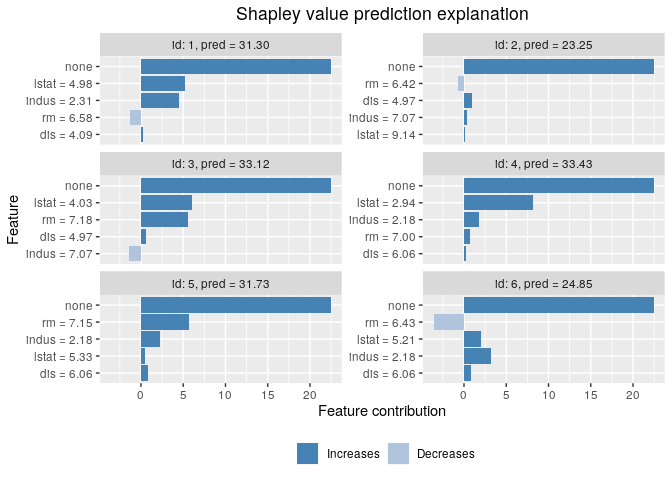
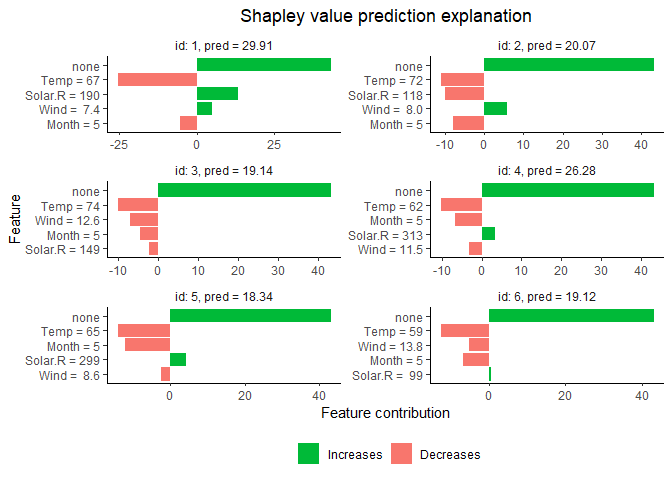
replace boston with airquality

diff --git a/README.md b/README.md
@@ -5,8 +5,8 @@
 
 <!-- badges: start -->
 
-[![CRAN\_Status\_Badge](https://www.r-pkg.org/badges/version-last-release/shapr)](https://cran.r-project.org/package=shapr)
-[![CRAN\_Downloads\_Badge](https://cranlogs.r-pkg.org/badges/grand-total/shapr)](https://cran.r-project.org/package=shapr)
+[![CRAN_Status_Badge](https://www.r-pkg.org/badges/version-last-release/shapr)](https://cran.r-project.org/package=shapr)
+[![CRAN_Downloads_Badge](https://cranlogs.r-pkg.org/badges/grand-total/shapr)](https://cran.r-project.org/package=shapr)
 [![R build
 status](https://github.com/NorskRegnesentral/shapr/workflows/R-CMD-check/badge.svg)](https://github.com/NorskRegnesentral/shapr/actions?query=workflow%3AR-CMD-check)
 [![Lifecycle:
@@ -47,25 +47,25 @@ This package implements the methodology of Aas, Jullum, and Løland
 
 The following methodology/features are currently implemented:
 
-  - Native support of explanation of predictions from models fitted with
+-   Native support of explanation of predictions from models fitted with
     the following functions `stats::glm`, `stats::lm`,`ranger::ranger`,
     `xgboost::xgboost`/`xgboost::xgb.train` and `mgcv::gam`.
-  - Accounting for feature dependence assuming the features are Gaussian
+-   Accounting for feature dependence assuming the features are Gaussian
     (Aas, Jullum, and Løland (2021)).
-  - Accounting for feature dependence with a Gaussian copula (Gaussian
+-   Accounting for feature dependence with a Gaussian copula (Gaussian
     dependence structure, any marginal) (Aas, Jullum, and Løland
     (2021)).
-  - Accounting for feature dependence using the Mahalanobis distance
+-   Accounting for feature dependence using the Mahalanobis distance
     based empirical (conditional) distribution approach of Aas, Jullum,
     and Løland (2021).
-  - Accounting for feature dependence using conditional inference trees
+-   Accounting for feature dependence using conditional inference trees
     (Redelmeier, Jullum, and Aas (2020)).
-  - Combining any of the four methods.
-  - Optional use of the AICc criterion of Hurvich, Simonoff, and Tsai
-    (1998) when optimizing the bandwidth parameter in the empirical
+-   Combining any of the four methods.
+-   Optional use of the AICc criterion of Hurvich, Simonoff, and
+    Tsai (1998) when optimizing the bandwidth parameter in the empirical
     (conditional) approach of Aas, Jullum, and Løland (2021).
-  - Functionality for visualizing the explanations.
-  - Support for models not supported natively.
+-   Functionality for visualizing the explanations.
+-   Support for models not supported natively.
 
 <!--
 Current methodological restrictions:
@@ -77,10 +77,10 @@ Current methodological restrictions:
 
 Future releases will include:
 
-  - Support for parallelization over explanations, Monte Carlo sampling
+-   Support for parallelization over explanations, Monte Carlo sampling
     and features subsets for non-parallelizable prediction functions.
-  - Computational improvement of the AICc optimization approach,
-  - Adaptive selection of method to account for the feature dependence.
+-   Computational improvement of the AICc optimization approach,
+-   Adaptive selection of method to account for the feature dependence.
 
 Note that both the features and the prediction must be numeric. The
 approach is constructed for continuous features. Discrete features may
@@ -127,30 +127,31 @@ You can always check out the latest version of the vignette
 which takes a set of numeric features and produces a numeric outcome.
 
 The following example shows how a simple `xgboost` model is trained
-using the *Boston Housing Data*, and how `shapr` explains the individual
+using the *airquality* dataset, and how `shapr` explains the individual
 predictions.
 
 ``` r
 library(xgboost)
 library(shapr)
 
-data("Boston", package = "MASS")
+data("airquality")
+airquality <- airquality[complete.cases(airquality), ]
 
-x_var <- c("lstat", "rm", "dis", "indus")
-y_var <- "medv"
+x_var <- c("Solar.R", "Wind", "Temp", "Month")
+y_var <- "Ozone"
 
 ind_x_test <- 1:6
-x_train <- as.matrix(Boston[-ind_x_test, x_var])
-y_train <- Boston[-ind_x_test, y_var]
-x_test <- as.matrix(Boston[ind_x_test, x_var])
+x_train <- as.matrix(airquality[-ind_x_test, x_var])
+y_train <- airquality[-ind_x_test, y_var]
+x_test <- as.matrix(airquality[ind_x_test, x_var])
 
 # Looking at the dependence between the features
 cor(x_train)
-#>            lstat         rm        dis      indus
-#> lstat  1.0000000 -0.6108040 -0.4928126  0.5986263
-#> rm    -0.6108040  1.0000000  0.1999130 -0.3870571
-#> dis   -0.4928126  0.1999130  1.0000000 -0.7060903
-#> indus  0.5986263 -0.3870571 -0.7060903  1.0000000
+#>            Solar.R       Wind       Temp      Month
+#> Solar.R  1.0000000 -0.1243826  0.3333554 -0.0710397
+#> Wind    -0.1243826  1.0000000 -0.5152133 -0.2013740
+#> Temp     0.3333554 -0.5152133  1.0000000  0.3400084
+#> Month   -0.0710397 -0.2013740  0.3400084  1.0000000
 
 # Fitting a basic xgboost model to the training data
 model <- xgboost(
@@ -160,32 +161,32 @@ model <- xgboost(
   verbose = FALSE
 )
 
-# Prepare the data for explanation
-explainer <- shapr(x_train, model)
-#> The specified model provides feature classes that are NA. The classes of data are taken as the truth.
-
 # Specifying the phi_0, i.e. the expected prediction without any features
 p <- mean(y_train)
 
 # Computing the actual Shapley values with kernelSHAP accounting for feature dependence using
 # the empirical (conditional) distribution approach with bandwidth parameter sigma = 0.1 (default)
 explanation <- explain(
+  x_train,
   x_test,
+  model = model,
   approach = "empirical",
-  explainer = explainer,
   prediction_zero = p
 )
+#> 
+#> Success with message:
+#> The specified model provides feature classes that are NA. The classes of data are taken as the truth.
 
 # Printing the Shapley values for the test data.
-# For more information about the interpretation of the values in the table, see ?shapr::explain.
-print(explanation$dt)
-#>      none     lstat         rm       dis      indus
-#> 1: 22.446 5.2632030 -1.2526613 0.2920444  4.5528644
-#> 2: 22.446 0.1671901 -0.7088401 0.9689005  0.3786871
-#> 3: 22.446 5.9888022  5.5450858 0.5660134 -1.4304351
-#> 4: 22.446 8.2142204  0.7507572 0.1893366  1.8298304
-#> 5: 22.446 0.5059898  5.6875103 0.8432238  2.2471150
-#> 6: 22.446 1.9929673 -3.6001958 0.8601984  3.1510531
+# For more information about the interpretation of the values in the table, see ?shapr::explain.  
+print(explanation$shapley_values)
+#>        none    Solar.R      Wind      Temp      Month
+#> 1: 43.08571 13.2117337  4.785645 -25.57222  -5.599230
+#> 2: 43.08571 -9.9727747  5.830694 -11.03873  -7.829954
+#> 3: 43.08571 -2.2916185 -7.053393 -10.15035  -4.452481
+#> 4: 43.08571  3.3254595 -3.240879 -10.22492  -6.663488
+#> 5: 43.08571  4.3039571 -2.627764 -14.15166 -12.266855
+#> 6: 43.08571  0.4786417 -5.248686 -12.55344  -6.645738
 
 # Finally we plot the resulting explanations
 plot(explanation)
@@ -208,9 +209,9 @@ By contributing to this project, you agree to abide by its terms.
 
 ## References
 
-<div id="refs" class="references hanging-indent">
+<div id="refs" class="references csl-bib-body hanging-indent">
 
-<div id="ref-aas2019explaining">
+<div id="ref-aas2019explaining" class="csl-entry">
 
 Aas, Kjersti, Martin Jullum, and Anders Løland. 2021. “Explaining
 Individual Predictions When Features Are Dependent: More Accurate
@@ -218,7 +219,7 @@ Approximations to Shapley Values.” *Artificial Intelligence* 298.
 
 </div>
 
-<div id="ref-hurvich1998smoothing">
+<div id="ref-hurvich1998smoothing" class="csl-entry">
 
 Hurvich, Clifford M, Jeffrey S Simonoff, and Chih-Ling Tsai. 1998.
 “Smoothing Parameter Selection in Nonparametric Regression Using an
@@ -227,7 +228,7 @@ Statistical Society: Series B (Statistical Methodology)* 60 (2): 271–93.
 
 </div>
 
-<div id="ref-lundberg2018consistent">
+<div id="ref-lundberg2018consistent" class="csl-entry">
 
 Lundberg, Scott M, Gabriel G Erion, and Su-In Lee. 2018. “Consistent
 Individualized Feature Attribution for Tree Ensembles.” *arXiv Preprint
@@ -235,7 +236,7 @@ arXiv:1802.03888*.
 
 </div>
 
-<div id="ref-lundberg2017unified">
+<div id="ref-lundberg2017unified" class="csl-entry">
 
 Lundberg, Scott M, and Su-In Lee. 2017. “A Unified Approach to
 Interpreting Model Predictions.” In *Advances in Neural Information
@@ -243,7 +244,7 @@ Processing Systems*, 4765–74.
 
 </div>
 
-<div id="ref-lime_api">
+<div id="ref-lime_api" class="csl-entry">
 
 Pedersen, Thomas Lin, and Michaël Benesty. 2019. *Lime: Local
 Interpretable Model-Agnostic Explanations*.
@@ -251,7 +252,7 @@ Interpretable Model-Agnostic Explanations*.
 
 </div>
 
-<div id="ref-redelmeier2020explaining">
+<div id="ref-redelmeier2020explaining" class="csl-entry">
 
 Redelmeier, Annabelle, Martin Jullum, and Kjersti Aas. 2020. “Explaining
 Predictive Models with Mixed Features Using Shapley Values and
@@ -260,7 +261,7 @@ for Machine Learning and Knowledge Extraction*, 117–37. Springer.
 
 </div>
 
-<div id="ref-vstrumbelj2014explaining">
+<div id="ref-vstrumbelj2014explaining" class="csl-entry">
 
 Štrumbelj, Erik, and Igor Kononenko. 2014. “Explaining Prediction Models
 and Individual Predictions with Feature Contributions.” *Knowledge and
